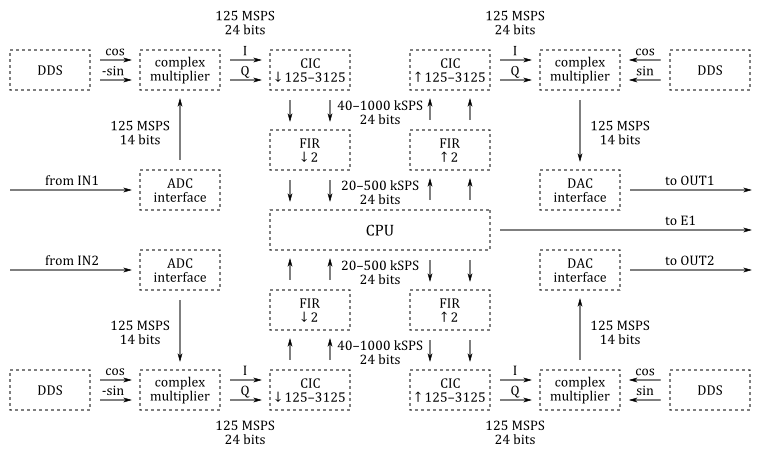
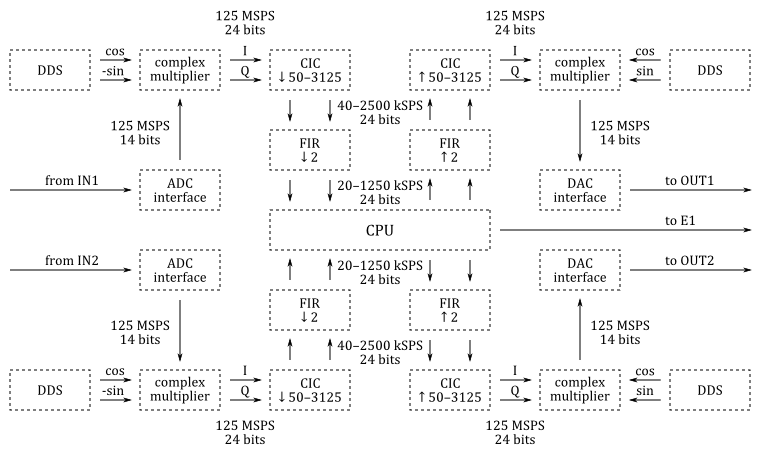
add 1250k sample rate to sdr-transceiver

diff --git a/sdr-transceiver.md b/sdr-transceiver.md
@@ -25,7 +25,7 @@ The SDR transmitters consist of the similar blocks but arranged in an opposite o
 
 The tunable frequency range covers from 0 Hz to 60 MHz.
 
-The I/Q data rate is configurable and five settings are available: 20, 50, 100, 250 and 500 kSPS.
+The I/Q data rate is configurable and five settings are available: 20, 50, 100, 250, 500 and 1250 kSPS.
 
 The basic blocks of the digital down-converters (DDC) and of the digital up-converters (DUC) are shown on the following diagram:
 
@@ -33,7 +33,7 @@ The basic blocks of the digital down-converters (DDC) and of the digital up-conv
 
 The [projects/sdr_transceiver](https://github.com/pavel-demin/red-pitaya-notes/tree/master/projects/sdr_transceiver) directory contains four Tcl files: [block_design.tcl](https://github.com/pavel-demin/red-pitaya-notes/blob/master/projects/sdr_transceiver/block_design.tcl), [trx.tcl](https://github.com/pavel-demin/red-pitaya-notes/blob/master/projects/sdr_transceiver/trx.tcl), [rx.tcl](https://github.com/pavel-demin/red-pitaya-notes/blob/master/projects/sdr_transceiver/rx.tcl), [tx.tcl](https://github.com/pavel-demin/red-pitaya-notes/blob/master/projects/sdr_transceiver/tx.tcl). The code in these files instantiates, configures and interconnects all the needed IP cores.
 
-The [projects/sdr_transceiver/server](https://github.com/pavel-demin/red-pitaya-notes/tree/master/projects/sdr_transceiver/server) directory contains the source code of the TCP server ([sdr-transceiver.c](https://github.com/pavel-demin/red-pitaya-notes/blob/master/projects/sdr_transceiver/server/sdr-transceiver.c)) that receives control commands and transmits/receives the I/Q data streams (up to 2 x 32 bit x 500 kSPS = 30.5 Mbit/s) to/from the SDR programs.
+The [projects/sdr_transceiver/server](https://github.com/pavel-demin/red-pitaya-notes/tree/master/projects/sdr_transceiver/server) directory contains the source code of the TCP server ([sdr-transceiver.c](https://github.com/pavel-demin/red-pitaya-notes/blob/master/projects/sdr_transceiver/server/sdr-transceiver.c)) that receives control commands and transmits/receives the I/Q data streams (up to 2 x 32 bit x 1250 kSPS = 76.3 Mbit/s) to/from the SDR programs.
 
 Software
 -----
